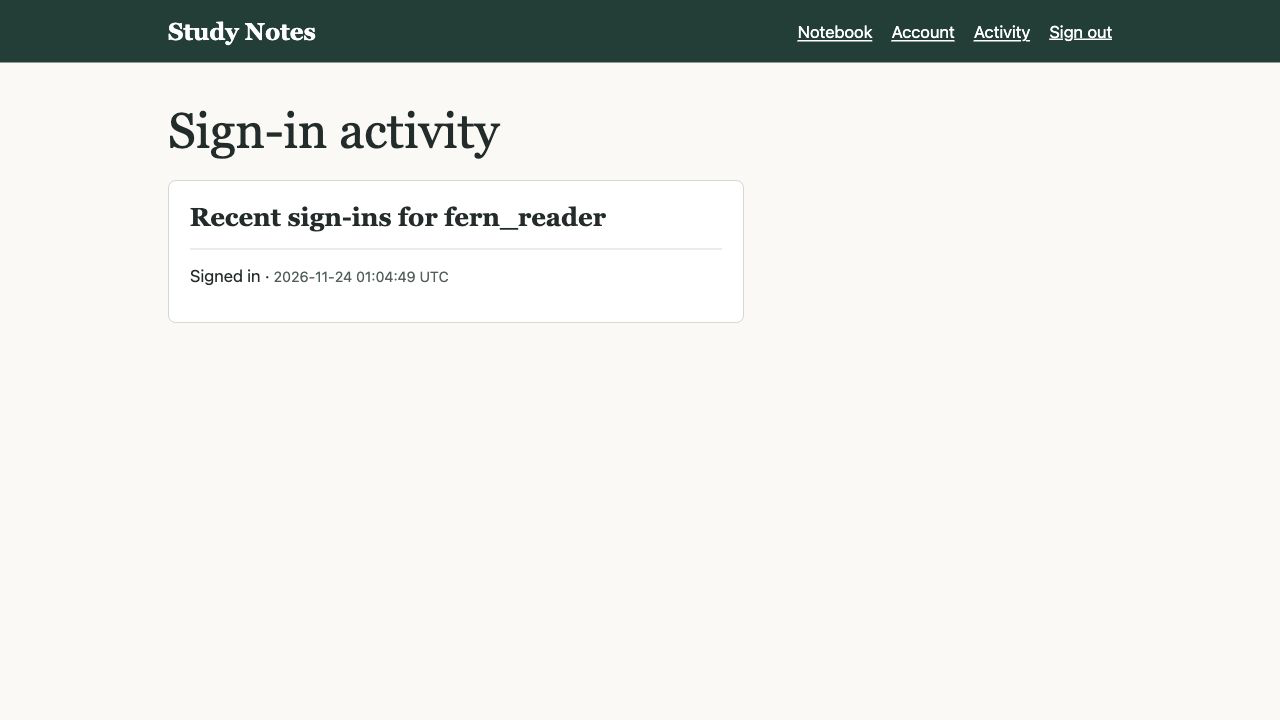
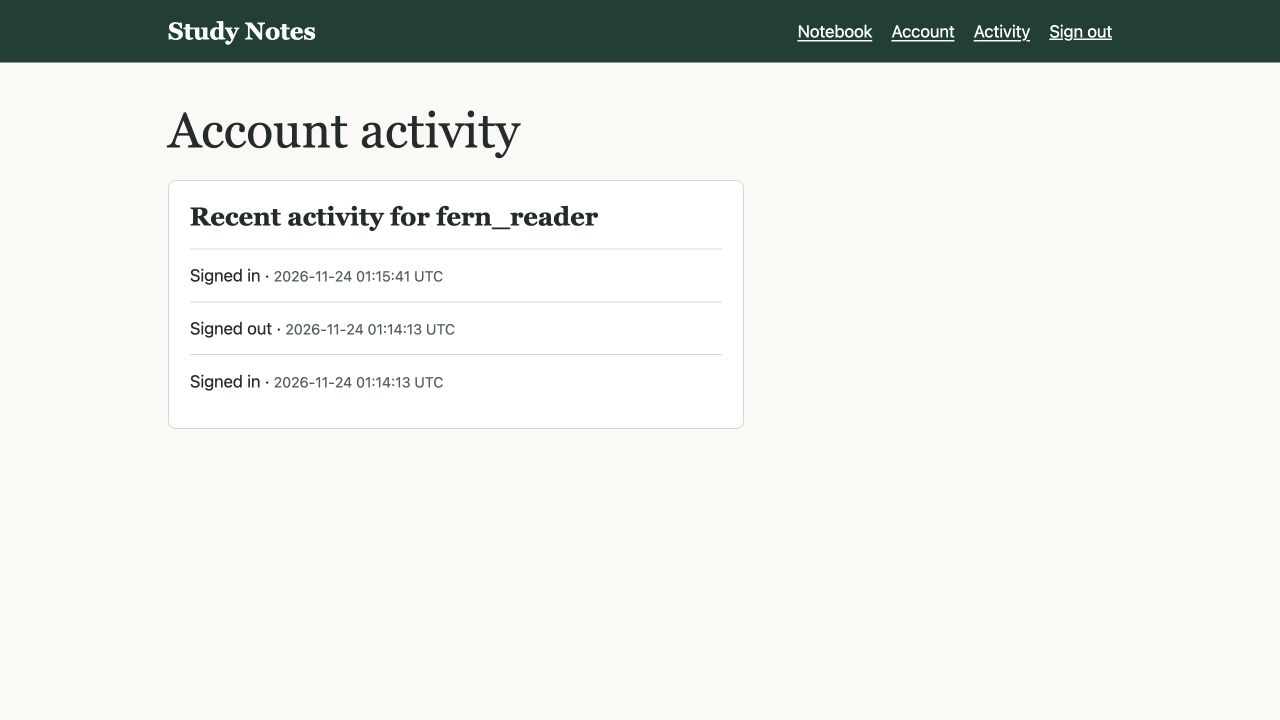
Demonstrate missing sign-out history and simplify form handling

diff --git a/notes/templates/notes/activity.html b/notes/templates/notes/activity.html
@@ -1,9 +1,14 @@
 {% extends "notes/base.html" %}
 {% block content %}
-<h1>Sign-in activity</h1>
-<section class="card narrow"><h2>Recent sign-ins for {{ user.username }}</h2>
-<ul class="entries">
-{% for event in events %}<li>Signed in &middot; <time>{{ event.created|date:"Y-m-d H:i:s" }} UTC</time></li>
-{% empty %}<li>No sign-ins recorded.</li>{% endfor %}
-</ul></section>
+<h1>Account activity</h1>
+<section class="card narrow">
+  <h2>Recent activity for {{ user.username }}</h2>
+  <ul class="entries">
+    {% for event in events %}
+      <li>{{ event.get_kind_display }} &middot; <time>{{ event.created|date:"Y-m-d H:i:s" }} UTC</time></li>
+    {% empty %}
+      <li>No activity recorded.</li>
+    {% endfor %}
+  </ul>
+</section>
 {% endblock %}

diff --git a/notes/templates/notes/account.html b/notes/templates/notes/account.html
@@ -3,5 +3,5 @@
 <h1>Account</h1>
 <section class="card narrow"><h2>{{ user.username }}</h2><dl>
   <dt>Password storage algorithm</dt><dd><code>{{ algorithm }}</code></dd>
-</dl><a href="{% url 'activity' %}">View sign-in activity</a></section>
+</dl><a href="{% url 'activity' %}">View account activity</a></section>
 {% endblock %}

diff --git a/notes/views.py b/notes/views.py
@@ -5,28 +5,36 @@ from django.shortcuts import get_object_or_404, redirect, render
 from django.views.decorators.http import require_http_methods
 
 from .forms import NoteForm
-from .models import Note, SignIn
+from .models import Note, SessionEvent
 
 
 @require_http_methods(["GET", "POST"])
 def register(request):
-    form = UserCreationForm(request.POST if request.method == "POST" else None)
-    if request.method == "POST" and form.is_valid():
-        # The form applies the configured password validators and hashes on save.
-        form.save()
-        return redirect("login")
+    if request.method == "POST":
+        form = UserCreationForm(request.POST)
+        if form.is_valid():
+            form.save()
+            return redirect("login")
+    else:
+        form = UserCreationForm()
+
     return render(request, "notes/register.html", {"form": form})
 
 
 @login_required
 @require_http_methods(["GET", "POST"])
 def notebook(request):
-    form = NoteForm(request.POST if request.method == "POST" else None)
-    if request.method == "POST" and form.is_valid():
-        note = form.save(commit=False)
-        note.owner = request.user
-        note.save()
-        return redirect("note", pk=note.pk)
+    if request.method == "POST":
+        form = NoteForm(request.POST)
+        if form.is_valid():
+            # Fill in the owner before writing the note to the database.
+            note = form.save(commit=False)
+            note.owner = request.user
+            note.save()
+            return redirect("note", pk=note.pk)
+    else:
+        form = NoteForm()
+
     query = request.GET.get("q", "")
     notes = Note.objects.filter(owner=request.user).order_by("-created", "-pk")
     if query:
@@ -49,5 +57,5 @@ def account(request):
 
 @login_required
 def activity(request):
-    events = SignIn.objects.filter(user=request.user).order_by("-created", "-pk")[:20]
+    events = SessionEvent.objects.filter(user=request.user).order_by("-created", "-pk")[:20]
     return render(request, "notes/activity.html", {"events": events})

diff --git a/notes/signals.py b/notes/signals.py
@@ -1,19 +1,27 @@
 import logging
 
-from django.contrib.auth.signals import user_logged_in, user_login_failed
+from django.contrib.auth.signals import user_logged_in, user_logged_out, user_login_failed
 from django.dispatch import receiver
 
-from .models import SignIn
+from .models import SessionEvent
 
 log = logging.getLogger("notes.security")
 
 
 @receiver(user_logged_in)
 def record_sign_in(sender, user, **kwargs):
-    SignIn.objects.create(user=user)
+    SessionEvent.objects.create(user=user, kind="login")
 
 
 @receiver(user_login_failed)
 def record_failed_sign_in(sender, **kwargs):
     # Keep submitted credentials out of the server log.
     log.warning("Sign-in rejected")
+
+
+@receiver(user_logged_out)
+def record_sign_out(sender, user, **kwargs):
+    # Fix 5: save the end of the session in the same history as the sign-in.
+    # if user is not None:
+    #     SessionEvent.objects.create(user=user, kind="logout")
+    pass

diff --git a/notes/tests.py b/notes/tests.py
@@ -3,7 +3,7 @@ from django.contrib.auth.hashers import check_password, identify_hasher
 from django.test import TestCase
 from django.urls import reverse
 
-from .models import Note, SignIn
+from .models import Note, SessionEvent
 
 User = get_user_model()
 
@@ -51,7 +51,7 @@ class NotebookTests(TestCase):
             "username": first.username, "password": password,
         }), "/")
         self.assertContains(self.client.get("/account/"), "pbkdf2_sha256")
-        self.assertEqual(SignIn.objects.filter(user=first).count(), 1)
+        self.assertEqual(SessionEvent.objects.filter(user=first, kind="login").count(), 1)
         self.assertRedirects(self.client.post("/logout/"), "/login/")
 
     def test_common_password_rejected(self):

diff --git a/notes/migrations/0002_sessionevent.py b/notes/migrations/0002_sessionevent.py
@@ -1,0 +1,17 @@
+from django.db import migrations, models
+
+
+class Migration(migrations.Migration):
+    dependencies = [("notes", "0001_initial")]
+    operations = [
+        migrations.RenameModel(old_name="SignIn", new_name="SessionEvent"),
+        migrations.AddField(
+            model_name="sessionevent",
+            name="kind",
+            field=models.CharField(
+                choices=[("login", "Signed in"), ("logout", "Signed out")],
+                default="login",
+                max_length=10,
+            ),
+        ),
+    ]

diff --git a/notes/models.py b/notes/models.py
@@ -9,6 +9,7 @@ class Note(models.Model):
     created = models.DateTimeField(auto_now_add=True)
 
 
-class SignIn(models.Model):
+class SessionEvent(models.Model):
+    kind = models.CharField(max_length=10, choices=[("login", "Signed in"), ("logout", "Signed out")], default="login")
     user = models.ForeignKey(settings.AUTH_USER_MODEL, on_delete=models.CASCADE)
     created = models.DateTimeField(auto_now_add=True)

diff --git a/README.md b/README.md
@@ -2,7 +2,7 @@
 
 Study Notes is a small Django and SQLite notebook. Create an account, sign in, write a note, and find it later by searching its title. Each account has its own notebook and sign-in history.
 
-This repository contains the protected implementation. All five controls run in the backend. The screenshots show the running app with those controls enabled. The course also asks for an executable vulnerable version, commented-out fixes, and before-state screenshots. Those items are outside this version.
+The sign-out history demonstrates a logging flaw (A09). Its fix is commented out in the backend. The other four categories have active protections and after-state screenshots. Their vulnerable versions and before-state screenshots are missing from this project.
 
 ## Run locally
 
@@ -32,7 +32,7 @@ Open [the notebook](http://127.0.0.1:8000/). Choose **Create an account**, regis
 
 ## Five backend checks
 
-The category numbers refer to the [OWASP Top 10 for 2021](https://owasp.org/Top10/2021/). All screenshots use fictional accounts and sample notes. The screenshot session used port 8674.
+The category numbers refer to the [OWASP Top 10 for 2021](https://owasp.org/Top10/2021/). All screenshots use fictional accounts and sample notes. Checks 1–4 used port 8674. The two logging screenshots used separate local databases and the same sequence of actions.
 
 | # | Category | What the backend does and how to check it | Browser evidence |
 |---|---|---|---|
@@ -40,7 +40,15 @@ The category numbers refer to the [OWASP Top 10 for 2021](https://owasp.org/Top1
 | 2 | A02 Cryptographic Failures | Registration uses Django’s password hashing. The Account page reads the algorithm from the current user’s stored password record. The test registers two accounts with the same password, checks that their encoded values differ, and verifies the password still works. See [registration and account views](notes/views.py). | [Stored password algorithm](screenshots/flaw-2-after-1.png) |
 | 3 | A03 Injection | The title search passes the search term to a Django ORM filter as a bound value. The test checks that an apostrophe and a percent sign match the intended title and that a private title from another account stays out of the results. See [notebook search](notes/views.py). | [Literal title search](screenshots/flaw-3-after-1.png) |
 | 4 | A07 Identification and Authentication Failures | The registration form runs Django’s password validators before creating an account. The tests check that a common password yields a form error and creates no user, and that a valid registration can sign in and out. See [validators](config/settings.py) and [registration](notes/views.py). | [Registration rejected](screenshots/flaw-4-after-1.png) |
-| 5 | A09 Security Logging and Monitoring Failures | Django’s authentication signals record successful sign-ins with a user and timestamp and send a warning to the server log on failure. The Activity page displays the last 20 successful sign-ins for the current account. The tests check event ownership and the credential-free warning text. See [event handlers](notes/signals.py). | [Recorded sign-in](screenshots/flaw-5-after-1.png) |
+| 5 | A09 Security Logging and Monitoring Failures | A sign-out ends the session but leaves no entry in the account history. The commented fix records the user, event type, and time. See [sign-out handler](notes/signals.py). | [Missing sign-out](screenshots/flaw-5-before-1.png) · [Sign-out recorded](screenshots/flaw-5-after-1.png) |
+
+## Try the sign-out logging fix
+
+1. Sign in with a fresh account, sign out, then sign in again. Open **Activity**. There are two sign-ins. Someone reviewing the history cannot tell when the first session ended.
+2. Open `notes/signals.py` and find `record_sign_out`. Uncomment the two lines under **Fix 5** and remove the `pass` below them. Restart the server if auto-reload is off.
+3. Sign out and sign in again. Open **Activity**. The latest sign-out now appears between the two most recent sign-ins. The fix records new events. Earlier missing times cannot be recovered.
+
+The two screenshots each start with a fresh account and show the same sign-in, sign-out, sign-in sequence. Django handles session termination in both runs. The difference is the event saved in SQLite.
 
 ## Run the tests
 
